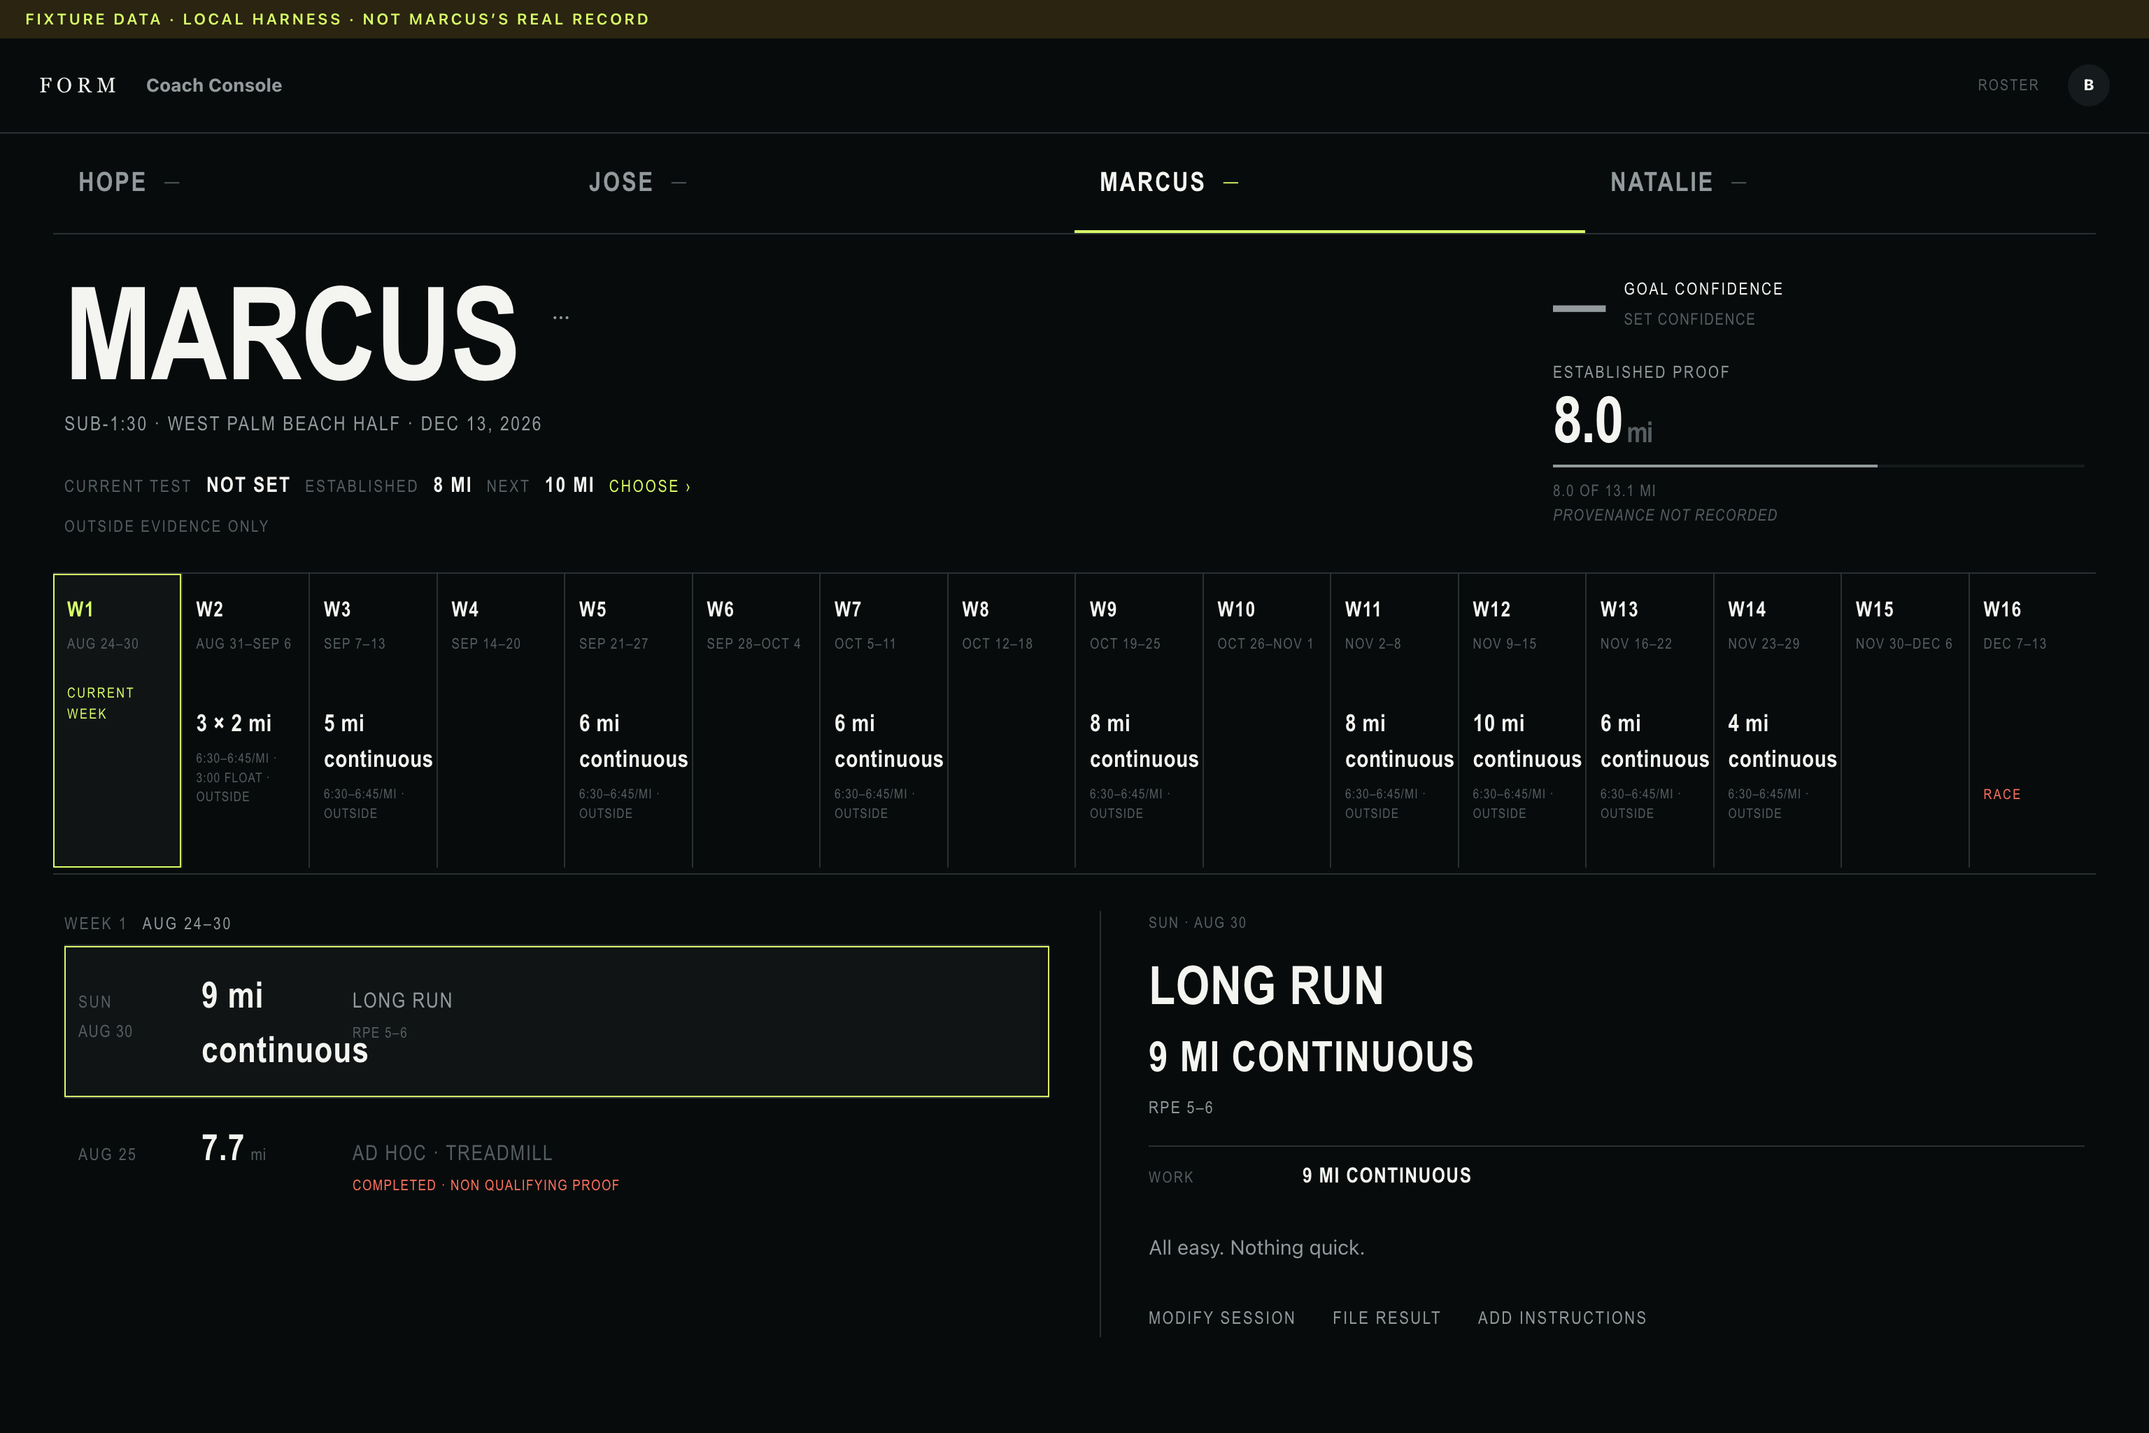
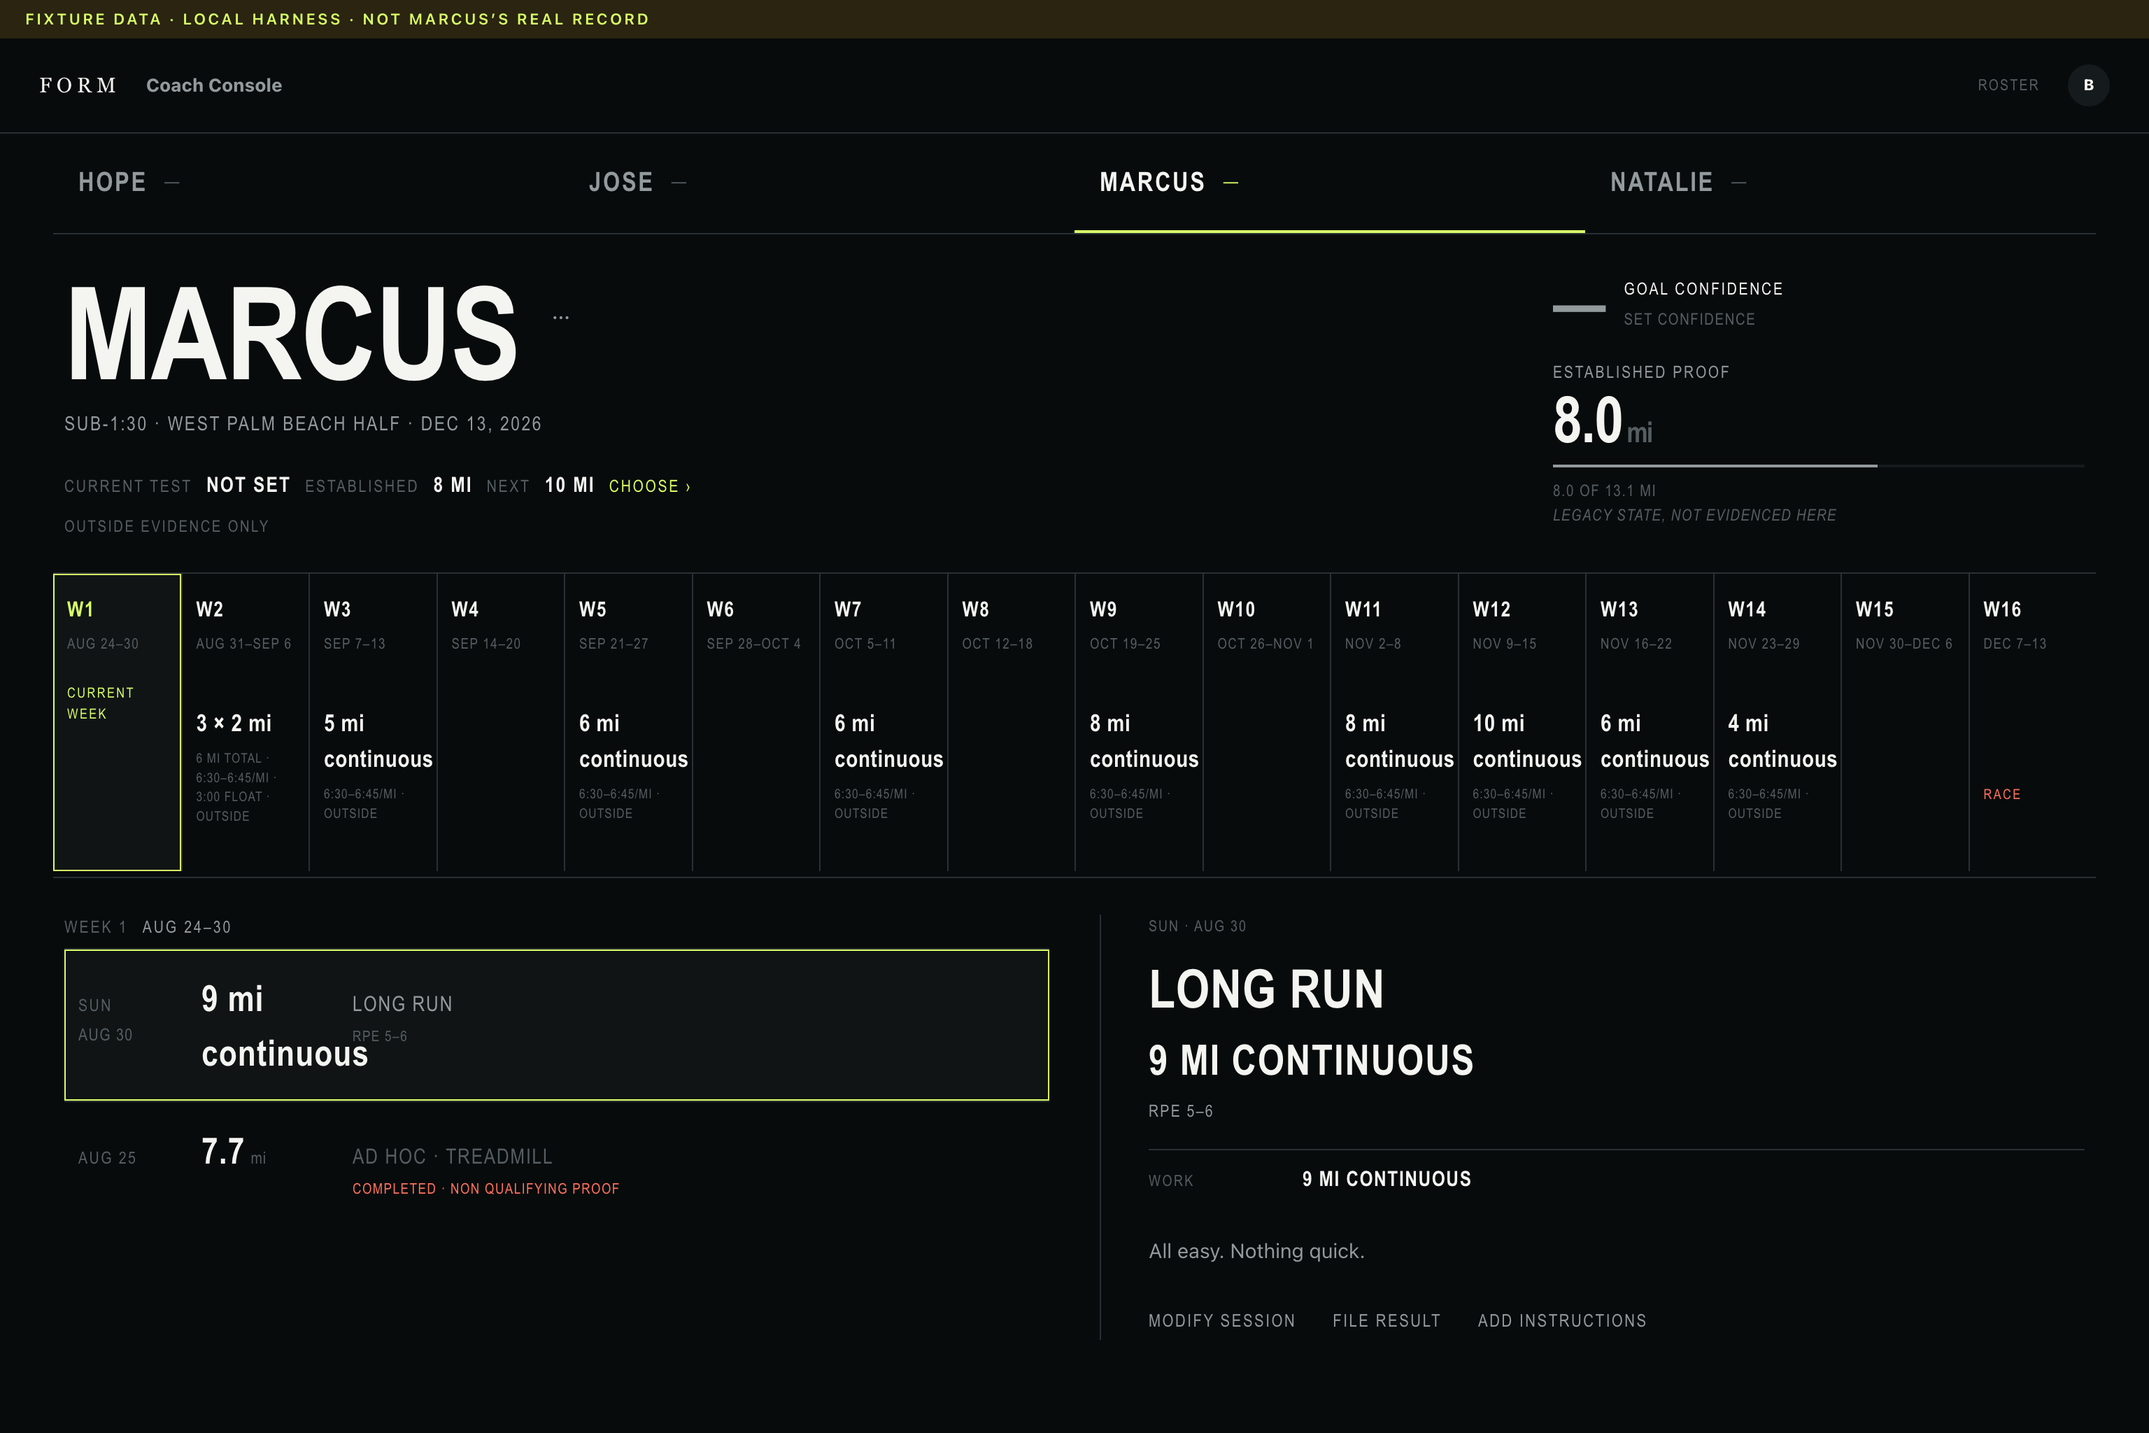
The work is the evidence; recovery is loud only when it earned it
Hope's filed 25 August read recovery first and largest, in bold, labelled "not
prescribed", while the four reps that carry the claim sat quiet underneath. Two
faults behind one screen.

The prescription was being read from session_verdicts, which predates structured
dose and says nothing was asked. Her version 2 plainly asks 6:25 to 6:30 with a
3:00 float. The prescription now comes from the stored components, and the
verdict is used only for the thing it alone knows: the athlete's own easy pace
that day, computed from the easy pieces of that same session.

Order follows what carries the claim. Work leads with rep count, actual range and
the spread across reps, because four miles inside four seconds and four inside
forty are different sessions. Splits sit under it, quiet. RPE reads as context.
Recovery is prominent only when it was prescribed or when it was so far off the
athlete's own easy pace that it changed what the session could answer. Hope's
10:01 and two 12:12 against her 8:48 qualify on both counts and say so in words:
rested rather than floated.

Completed is no longer coral. Coral is for what needs attention, and finishing
the session is not that.

Interval work states its total. Four reps of a mile is four miles of work and one
mile held, and the runway and inspector now say both so neither can be read as
the other. Established proof that predates provenance says legacy state, not
evidenced here, rather than only that provenance is missing.
[…]

diff --git a/coach/coach.js b/coach/coach.js
@@ -92,8 +92,8 @@ function ladderProvenance(mark) {
   const points = (mark?.checkpoints || []).filter((point) =>
     point.state === 'reached' || point.state === 'repeated');
   if (!points.length) return null;
-  if (points.every((point) => point.source === 'legacy')) return 'provenance not recorded';
-  if (points.some((point) => point.source === 'legacy')) return 'some rungs predate the record';
+  if (points.every((point) => point.source === 'legacy')) return 'legacy state, not evidenced here';
+  if (points.some((point) => point.source === 'legacy')) return 'some rungs are legacy state';
   if (points.every((point) => point.source === 'automatic')) return 'advanced on filed evidence';
   return null;
 }
@@ -174,9 +174,14 @@ function doseOf(version) {
   const amount = work.distance != null
     ? `${Number(work.distance)} ${unit}`
     : `${Math.round((work.duration_seconds || 0) / 60)} min`;
+  const total = work.shape === 'repetitions' && work.distance != null
+    ? Number((work.distance * work.repeat_count).toFixed(2)) : null;
   const line = work.shape === 'repetitions'
     ? `${work.repeat_count} \u00d7 ${amount}`
     : `${amount} continuous`;
+  // Four reps of a mile is four miles of work and one mile held. The total is
+  // said so nobody reads it as the other thing, and it is never proof on its own.
+  const totalLine = total != null ? `${total} ${unit} total` : null;
   const band = [work.pace_low, work.pace_high].filter(Boolean).join('\u2013');
   // A pace band is what makes a session proof bearing. An easy run and a long run
   // are authored against effort, so they are real work and not evidence for this
@@ -193,7 +198,8 @@ function doseOf(version) {
   if (proofBearing && selectedRecord.primaryMark?.evidence_surface_requirement === 'outdoor') {
     qualifiers.push('outside');
   }
-  return { line, qualifiers: qualifiers.join(' \u00b7 '), work, proofBearing };
+  if (totalLine) qualifiers.unshift(totalLine);
+  return { line, qualifiers: qualifiers.join(' \u00b7 '), work, proofBearing, totalLine };
 }
 
 // The runway. Every authored week with its real dates, the key race-pace session
@@ -392,60 +398,88 @@ function sessionInspectorHtml(session) {
 // Recovery first and largest, effort second, splits quiet. The reading order is
 // the judgment: recovery decides whether the session can answer anything, and
 // splits are the most seductive figure and the least decisive.
+// What the session actually established, read against what was actually asked.
+//
+// The prescription comes from the stored components now, not the legacy verdict
+// table. That table predates structured dose and says "not prescribed" for
+// sessions that plainly were, which is how Hope's 3:00 float came to read as
+// nothing being asked of her recovery.
+//
+// Order follows what carries the claim. For interval work the reps are the
+// evidence: how many, at what range, how tight. Recovery earns the top of the
+// page only when it was prescribed or when it materially changed the session,
+// which is different from always. RPE is context and reads as context.
 function evidenceFactsHtml(completion) {
-  const verdict = (selectedRecord.verdicts || []).find((item) => item.completion_id === completion.id);
   const pieces = (selectedRecord.pieces || []).filter((piece) => piece.completion_id === completion.id);
   const floats = pieces.filter((piece) => piece.kind === 'float');
   const reps = pieces.filter((piece) => piece.kind === 'rep');
   const pace = (seconds) => (seconds ? `${Math.floor(seconds / 60)}:${String(Math.round(seconds) % 60).padStart(2, '0')}` : '');
-  const rested = verdict?.float_verdict === 'outside';
-  const effortOff = verdict?.effort_verdict === 'outside';
+  const clock = (seconds) => `${Math.floor(seconds / 60)}:${String(seconds % 60).padStart(2, '0')}`;
   const judgment = (selectedRecord.judgments || []).find((item) => item.completionIds.includes(completion.id));
+
+  // The authored prescription behind this filing, when there is one.
+  const session = (selectedRecord.sessions || []).find((item) => item.id === completion.planned_session_id);
+  const work = (session?.currentVersion?.components || []).find((part) => part.role === 'work');
+  const askedBand = [work?.pace_low, work?.pace_high].filter(Boolean).join('\u2013');
+  const askedRecovery = work?.recovery_seconds != null
+    ? `${clock(work.recovery_seconds)} ${work.recovery_kind}`
+    : work?.recovery_kind === 'equal' ? 'equal' : null;
+  const askedEffort = work?.rpe_low ? `${work.rpe_low}\u2013${work.rpe_high}` : null;
+
+  // The athlete's own easy pace that day decides whether a recovery was run at
+  // all. Never another athlete's. It is computed per completion from the easy
+  // pieces of that same session and exposed on the verdict, which is where the
+  // prescription stops being the source and the athlete's own reference starts.
+  const verdict = (selectedRecord.verdicts || []).find((item) => item.completion_id === completion.id);
+  const easy = verdict?.easy_pace || null;
+  const floatSeconds = floats.map((piece) => piece.pace_seconds).filter((value) => value != null);
+  const restedInstead = Boolean(easy && floatSeconds.length && Math.min(...floatSeconds) > easy + 60);
+  // Prescribed, or so far off that it changed what the session could answer.
+  const recoveryMatters = Boolean(askedRecovery) || restedInstead;
+
+  const repSeconds = reps.map((piece) => piece.pace_seconds).filter((value) => value != null);
+  const spread = repSeconds.length ? Math.max(...repSeconds) - Math.min(...repSeconds) : null;
 
   const where = [completion.surface, completion.conditions].filter(Boolean).join(' \u00b7 ');
   const standing = qualifyingWords(completion);
+  const nonQualifying = /non qualifying/i.test(standing);
 
-  return `${where ? `<p class="ins-where">${escapeHtml(where)}<em>${escapeHtml(standing)}</em></p>` : ''}
-    <dl class="evf">
-      ${floats.length ? `<div class="evf-row${rested ? ' evf-row--off' : ''}">
-        <dt>Recovery</dt>
-        <dd class="evf-asked">${verdict ? 'asked easy' : 'not prescribed'}</dd>
-        <dd class="evf-was"><b>${floats.map((piece) => escapeHtml(pace(piece.pace_seconds))).join('  ')}</b>
-          ${verdict ? `<span>${escapeHtml(verdict.floats_honest)} of ${escapeHtml(verdict.floats)} inside easy</span>` : ''}</dd>
-      </div>` : ''}
-      <div class="evf-row${effortOff ? ' evf-row--off' : ''}">
-        <dt>RPE</dt>
-        <dd class="evf-asked">${verdict?.rpe_low ? `asked ${escapeHtml(verdict.rpe_low)}\u2013${escapeHtml(verdict.rpe_high)}` : 'not asked'}</dd>
-        <dd class="evf-was"><b>${completion.rpe ? escapeHtml(completion.rpe) : '\u2014'}</b></dd>
-      </div>
-      ${(reps.length || floats.length) ? `<div class="evf-row evf-row--quiet">
-        <dt>Rep range</dt>
-        <dd class="evf-asked">${reps.length ? `${reps.length} recorded` : 'splits not filed'}</dd>
-        <dd class="evf-was">${(() => {
-          // An average hides the thing that matters. 6:49 average could be four
-          // miles inside four seconds or four inside forty, and only one of
-          // those is control.
-          const seconds = reps.map((piece) => piece.pace_seconds).filter((value) => value != null);
-          if (!seconds.length) return 'not available';
-          const low = Math.min(...seconds); const high = Math.max(...seconds);
-          return `${escapeHtml(pace(low))}\u2013${escapeHtml(pace(high))} <span>${escapeHtml(high - low)} sec range</span>`;
-        })()}</dd>
-      </div>` : ''}
-      ${reps.length ? `<div class="evf-row evf-row--quiet">
-        <dt>Splits</dt>
-        <dd class="evf-asked">${verdict?.pace_verdict === 'not prescribed' || !verdict?.pace_low
-          ? 'not recorded' : `asked ${escapeHtml(pace(verdict.pace_low))}\u2013${escapeHtml(pace(verdict.pace_high))}`}</dd>
-        <dd class="evf-was">${reps.map((piece) => escapeHtml(pace(piece.pace_seconds))).join(' \u00b7 ')}</dd>
-      </div>` : ''}
-    </dl>
+  const workRow = reps.length ? `<div class="evf-row evf-row--lead">
+      <dt>Work</dt>
+      <dd class="evf-asked">${work
+        ? `asked ${escapeHtml(work.repeat_count)} \u00d7 ${escapeHtml(Number(work.distance))} ${escapeHtml(work.distance_unit)}`
+        : 'no prescription filed'}</dd>
+      <dd class="evf-was"><b>${escapeHtml(reps.length)} \u00d7 ${escapeHtml(pace(Math.min(...repSeconds)))}\u2013${escapeHtml(pace(Math.max(...repSeconds)))}</b>
+        <span>${escapeHtml(spread)} sec across ${escapeHtml(reps.length)} reps</span></dd>
+    </div>
+    <div class="evf-row evf-row--quiet">
+      <dt>Splits</dt>
+      <dd class="evf-asked">${askedBand ? `asked ${escapeHtml(askedBand)}` : 'pace not prescribed'}</dd>
+      <dd class="evf-was">${reps.map((piece) => escapeHtml(pace(piece.pace_seconds))).join(' \u00b7 ')}</dd>
+    </div>` : '';
+
+  const recoveryRow = floats.length ? `<div class="evf-row${recoveryMatters ? '' : ' evf-row--quiet'}${restedInstead ? ' evf-row--off' : ''}">
+      <dt>Recovery</dt>
+      <dd class="evf-asked">${askedRecovery ? `asked ${escapeHtml(askedRecovery)}` : 'not prescribed'}</dd>
+      <dd class="evf-was">${recoveryMatters
+        ? `<b>${floats.map((piece) => escapeHtml(pace(piece.pace_seconds))).join('  ')}</b>`
+        : floats.map((piece) => escapeHtml(pace(piece.pace_seconds))).join(' \u00b7 ')}
+        ${restedInstead ? '<span>rested rather than floated</span>' : ''}</dd>
+    </div>` : '';
+
+  const effortRow = `<div class="evf-row evf-row--quiet">
+      <dt>RPE</dt>
+      <dd class="evf-asked">${askedEffort ? `asked ${escapeHtml(askedEffort)}` : 'not asked'}</dd>
+      <dd class="evf-was">${completion.rpe ? escapeHtml(completion.rpe) : '\u2014'}</dd>
+    </div>`;
+
+  return `${where ? `<p class="ins-where">${escapeHtml(where)}<em${nonQualifying ? ' class="ins-where--flag"' : ''}>${escapeHtml(standing)}</em></p>` : ''}
+    <dl class="evf">${workRow}${effortRow}${recoveryRow}</dl>
     ${judgment ? `<p class="ins-judgment ${escapeHtml(judgment.direction)}">
       <span>${escapeHtml(directionWords[judgment.direction] || judgment.direction)}</span>${escapeHtml(judgment.reason)}</p>` : ''}
     ${completion.athlete_note ? `<p class="ins-said">${escapeHtml(completion.athlete_note)}</p>` : ''}`;
 }
 
-// Three separate ideas, never merged. ESTABLISHED is the rung Brice has accepted.
-// CURRENT TEST is what the work is asking now. NEXT PROOF TARGET only means
-// anything once the established rung is known, so it stays silent until then.
 function currentRungHtml() {
   const mark = selectedRecord.primaryMark;
   if (!mark?.checkpoints?.length) return '';
@@ -891,9 +925,18 @@ function openLadder() {
   ladderDialog.showModal();
 }
 
+let editingCheckpointSource = null;
+
 function openRung(checkpointId, state, label) {
   rungForm.reset();
   editingCheckpointId = checkpointId;
+  const point = (selectedRecord.primaryMark?.checkpoints || []).find((item) => item.id === checkpointId);
+  editingCheckpointSource = point?.source || null;
+  // A rung that predates provenance is being corrected, not decided. Saying so
+  // is the difference between repairing the erasure and quietly overwriting it.
+  document.getElementById('rungProvenance').textContent = editingCheckpointSource === 'legacy'
+    ? 'This rung moved before anything recorded what moved it. Changing it is filed as a correction and the old value stays in the ledger.'
+    : '';
   document.getElementById('rungContext').textContent = `${label} miles`;
   [...rungForm.elements.state].forEach((radio) => { radio.checked = radio.value === state; });
   document.getElementById('rungStatus').textContent = '';
@@ -908,10 +951,13 @@ rungForm.addEventListener('submit', async (event) => {
   if (!chosen) { status.textContent = 'Pick one.'; return; }
   button.disabled = true; status.textContent = 'Saving.';
   try {
-    // Brice deciding by hand. The rule's own advances carry source 'automatic'
-    // and cite the filing that earned them.
+    // Correcting a rung nobody can vouch for is an override; setting one that
+    // was properly recorded is a coach decision. Both name a reason, and the
+    // previous value survives in the append-only ledger either way.
     await moveCheckpoint(editingCheckpointId, chosen, {
-      source: 'coach', decision: 'advance', reason: 'Set by hand from the ladder.'
+      source: editingCheckpointSource === 'legacy' ? 'override' : 'coach',
+      decision: chosen === 'proposed' ? 'reduce' : 'advance',
+      reason: rungForm.elements.reason.value
     });
     rungDialog.close();
     await refreshSelected(true);

diff --git a/private/graphite.css b/private/graphite.css
@@ -2067,3 +2067,13 @@ select[multiple].field-select option { padding: 5px 6px; border-radius: 6px; }
 
 /* Provenance said quietly beside the number, never in front of it. */
 .consoleInstrument__caveat { color: var(--console-muted); font-style: italic; letter-spacing: .06em; }
+
+/* The work is the evidence, so it leads. Recovery is loud only when it was
+   prescribed or when it changed what the session could answer. */
+.evf-row--lead .evf-was b { font-size: 26px; }
+.evf-row--lead .evf-was span { display: block; margin-top: 4px; }
+.evf-row--quiet .evf-was { color: var(--console-secondary); font-weight: 400; }
+.evf-row--quiet .evf-was b { font-size: 15px; font-weight: 600; color: var(--console-secondary); }
+/* Completed is not an alarm. Coral is reserved for what needs attention. */
+.ins-where em { color: var(--console-secondary); }
+.ins-where em.ins-where--flag { color: var(--console-coral); }

diff --git a/coach/index.html b/coach/index.html
@@ -111,6 +111,10 @@
         <label><input type="radio" name="state" value="repeated"><span>Established again</span></label>
         <label><input type="radio" name="state" value="retired"><span>Retired</span></label>
       </div>
+      <label class="field-label lead">Why
+        <input class="field-input" name="reason" required placeholder="Correcting the legacy ladder. Eight was never established outside.">
+      </label>
+      <p class="dialog-note" id="rungProvenance"></p>
       <p class="status-message" id="rungStatus" role="status"></p>
       <div class="dialog-actions"><button class="button" type="button" data-close-dialog>Cancel</button><button class="button primary" type="submit">Save <span class="icon-arrow">&rarr;</span></button></div>
     </form>
